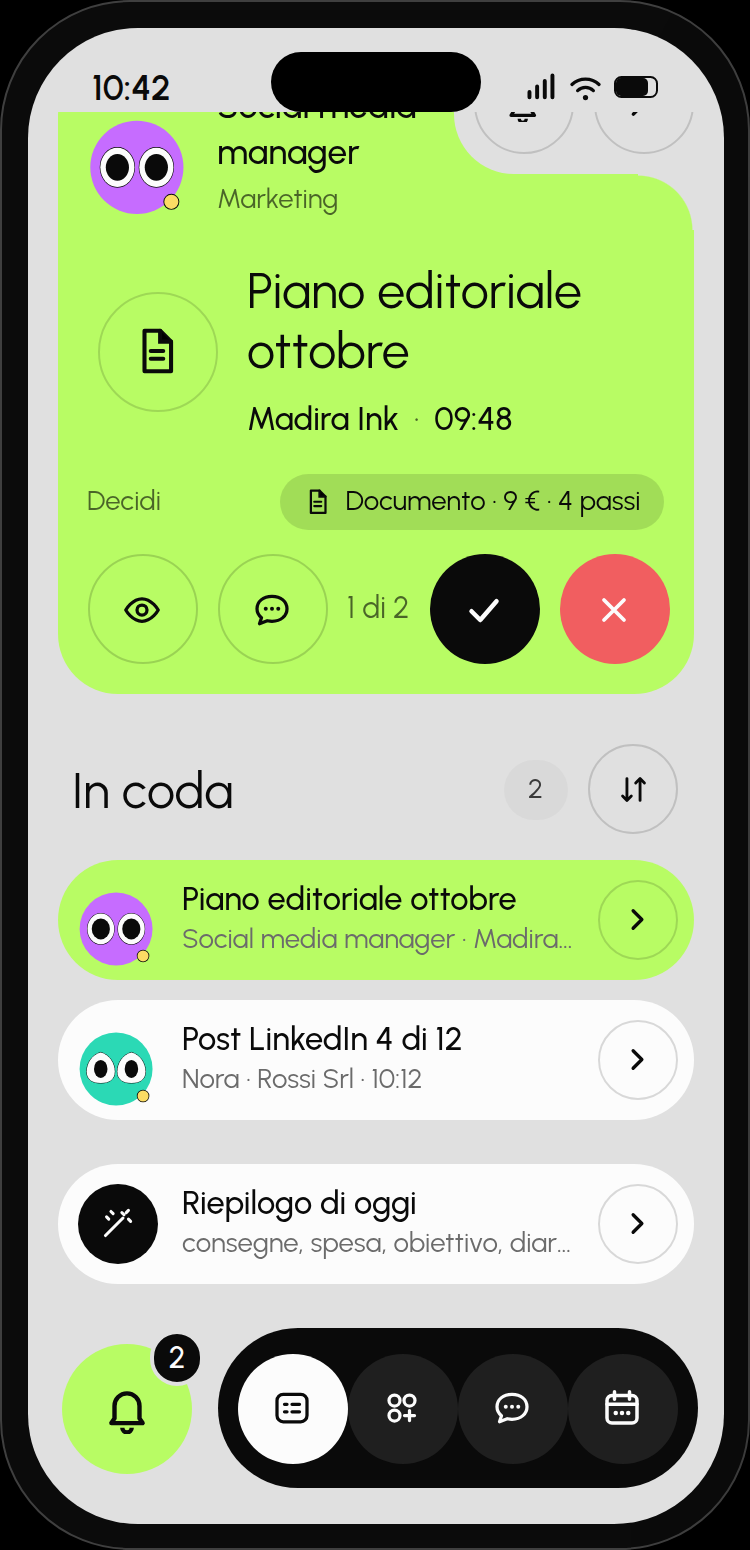
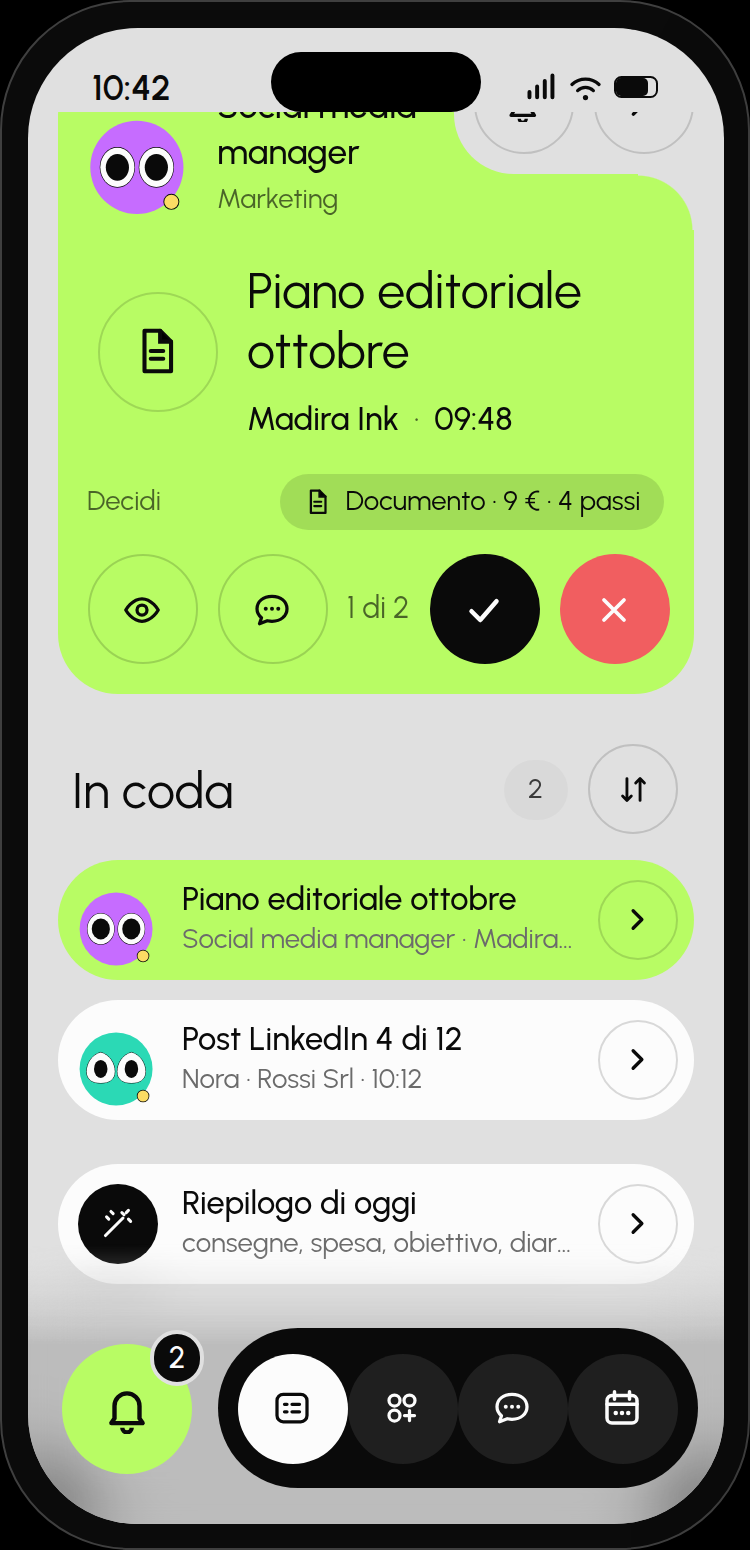
Mobile: fondo sfocato e scurito sotto la navigazione
Correzione dell'utente: la campanella lime delle approvazioni si confondeva
con la card lime e la riga lime della coda che le scorrono sotto. Il pulsante
non cambia colore: sotto la navigazione una fascia con il contenuto sfocato
(blur 14) e appena scurito (nero al 16 %), sfumata in alto. Screenshot e
documenti aggiornati (DIREZIONI.md, SYSTEM-DESIGN.md, PROSSIMA-SESSIONE.md).

Claude-Session: https://claude.ai/code/session_01BjCJ2dzrxSjpSoJBbbRKh2

Changed region(s): [[0.0307, 0.8361, 0.9813, 0.991]]

diff --git a/schermate/direzioni/mobile.js b/schermate/direzioni/mobile.js
@@ -11,7 +11,8 @@
       e i due numeri del titolare; la richiesta corrente come card lime (avatar,
       cosa, cliente · ora, chip del tipo) con i quattro cerchi della tendina della
       Console (apri, commenta, approva, rifiuta); «In coda» con le richieste come
-      righe; in fondo la riga «Riepilogo di oggi».
+      righe; in fondo la riga «Riepilogo di oggi». Sotto la navigazione il
+      contenuto che scorre è sfocato e appena scurito (correzione dell'utente).
    2. «Richiesta» (la tendina estesa in colonna, su fondo nero): indietro, le
       frecce che scorrono la coda, chip del tipo, titolo; il documento in una card
       bianca (testo e allegato); «Chi la propone» (avatar, consegnata alle, costo,
@@ -115,7 +116,11 @@ window.DGT_MOBILE = (function () {
 .m-vuoto b{font-weight:400;font-size:18px;color:var(--ink)}
 .m-scr:not(.chiara) .m-vuoto{border-color:rgb(255 255 255/.2);color:var(--t2)}
 .m-scr:not(.chiara) .m-vuoto b{color:var(--white)}
-/* navigazione in basso: campanella lime con il numero, pillola nera con i quattro cerchi del rail */
+/* navigazione in basso: campanella lime con il numero, pillola nera con i quattro cerchi del rail.
+   Sotto la navigazione il contenuto che scorre è sfocato e appena scurito, con il bordo alto sfumato (correzione dell'utente,
+   2026-09-05): la campanella lime resta distinta anche quando sotto passano la card lime o la riga lime della coda. Il vetro
+   sfocato è già nel sistema (i pulsanti «glass» della videochiamata). */
+.m-navfondo{position:absolute;left:0;right:0;bottom:0;height:112px;background:rgb(0 0 0/.16);-webkit-backdrop-filter:blur(14px);backdrop-filter:blur(14px);-webkit-mask-image:linear-gradient(180deg,transparent,#000 40px);mask-image:linear-gradient(180deg,transparent,#000 40px);pointer-events:none}
 .m-bnav{position:absolute;left:14px;right:14px;bottom:14px;height:64px;display:flex;align-items:center;gap:10px}
 .m-bnav .meet{position:relative;width:52px;height:52px;border-radius:50%;background:var(--lime);display:grid;place-items:center;color:var(--ink);flex:none}
 .m-bnav .meet svg{width:20px;height:20px}
@@ -177,7 +182,7 @@ window.DGT_MOBILE = (function () {
 
   /* ---------- pezzi comuni ---------- */
   const barraStato = m => `<div class="m-sb"><span>${esc(m.azienda.ora)}</span><span class="isl"></span><span class="sig">${ic('i-signal')}${ic('i-wifi')}<i></i></span></div>`;
-  const navigazione = (m, n, attiva) => `<div class="m-bnav">
+  const navigazione = (m, n, attiva) => `<div class="m-navfondo"></div><div class="m-bnav">
       <span class="meet" data-az="schermata" data-s="1" title="Da approvare">${ic('i-bell')}${n ? `<span class="n">${n}</span>` : ''}</span>
       <div class="tabs"><span class="rb${attiva === 1 ? ' white' : ''}" data-az="schermata" data-s="1" title="Da approvare">${ic('i-list')}</span><span class="rb" title="Dipartimenti">${ic('i-org')}</span><span class="rb" title="Chat">${ic('i-chat')}</span><span class="rb" title="Agenda">${ic('i-cal')}</span></div>
     </div>`;

diff --git a/SYSTEM-DESIGN.md b/SYSTEM-DESIGN.md
@@ -111,7 +111,7 @@ Urbanist (Google Fonts), pesi 300–600. I titoli non sono mai bold.
 | Card attività | 336×262, lime / `#4D4D4D` / scura; striscia con avatar 48, nome 15/500, ruolo 12; intaglio con campanella (punto rosso) e freccia; cerchio contornato 64 con icona; titolo 26; riga meta (coppia di avatar, data 500, "alle"); "Stato" 11; selettore a pillola 48 (bianca su lime, nera su grigio/scuro) con testo e chevron: nella card di un solo dipendente un chip di stato («In corso» lime, «Errore» rosa, l'ora) al posto dell'avatar, che sta già nella striscia; nelle card con più dipendenti (obiettivi) la pila di avatar e il badge «+N» dopo la pila, mai sotto (2026-09-04); mail vuota; video nero |
 | Videochiamata | 240 di altezza, gradiente grigio-caldo, avatar grande, controlli in vetro + rosso, espandi e chiudi |
 | Riepilogo | `#F4F4F4`, r28; cerchio nero con bacchetta, "Riepilogo" 26, freccia vuota; colonna orari 12 con badge rotondi 22 (lime "mi piace", rosa "stella") e linea `#C8C8C8`; card Documenti `#E4E4E4` r22 con intaglio per il download e due miniature 118 (`#D2D2D2`, foglio bianco, etichetta `#A7A7A7`); card Obiettivo con matita, testo 13/19 con parti in 500 (lime su mobile) |
-| Mobile | cornice 300×620 (bezel nero, r52), barra di stato "9:41", navigazione in basso a pillola nera 64 con quattro cerchi 44 (il primo bianco) e cerchio lime "video" a sinistra; WORKSPACE chiaro `#E0E0E0`; agenda nera con pannello lime, ore 38/300 ("14:00"), eventi bianchi, marcatore nero, blocco tratteggiato; videochiamata con Riepilogo. **DGT sul telefono (2026-09-05, versione 11, prima metà)**: la stessa cornice con l'ora dell'azienda; navigazione con i quattro cerchi del rail della Console e, al posto del video, la **campanella lime con il numero da approvare** (badge nero); **Da approvare** chiara (logo DGT, cerchio bianco dei filtri, iniziali del titolare; titolo 30/36; due numeri 26/300 con badge; la richiesta corrente come card lime r24 con striscia avatar 40, intaglio con campanella e freccia, icona del tipo 48, titolo 20/24, cliente · ora, riga «Decidi» con il chip tipo · costo · passi e i quattro cerchi 44 apri / commenta / approva nera / rifiuta rossa; «In coda» a righe bianche 48 con la corrente lime; riga «Riepilogo di oggi»); **Richiesta** nera (indietro e frecce della coda 44, chip 24, titolo 24/28, riga «chi · cliente · consegnata alle», documento bianco r24 con chip dell'allegato e testo 14/21, card scure r24 «Chi la propone» e «Nota del dipendente», barra fissa in basso: Approva lime 48 larga, matita, X rossa, con dissolvenza nera; il rifiuto trasforma la barra in etichetta 11 maiuscola, campo a pillola bianca 48 e pillole «Rifiuta» rossa / «Annulla») |
+| Mobile | cornice 300×620 (bezel nero, r52), barra di stato "9:41", navigazione in basso a pillola nera 64 con quattro cerchi 44 (il primo bianco) e cerchio lime "video" a sinistra; WORKSPACE chiaro `#E0E0E0`; agenda nera con pannello lime, ore 38/300 ("14:00"), eventi bianchi, marcatore nero, blocco tratteggiato; videochiamata con Riepilogo. **DGT sul telefono (2026-09-05, versione 11, prima metà)**: la stessa cornice con l'ora dell'azienda; navigazione con i quattro cerchi del rail della Console e, al posto del video, la **campanella lime con il numero da approvare** (badge nero); **Da approvare** chiara (logo DGT, cerchio bianco dei filtri, iniziali del titolare; titolo 30/36; due numeri 26/300 con badge; la richiesta corrente come card lime r24 con striscia avatar 40, intaglio con campanella e freccia, icona del tipo 48, titolo 20/24, cliente · ora, riga «Decidi» con il chip tipo · costo · passi e i quattro cerchi 44 apri / commenta / approva nera / rifiuta rossa; «In coda» a righe bianche 48 con la corrente lime; riga «Riepilogo di oggi»; sotto la navigazione una fascia di 112 px con il contenuto che scorre sfocato (blur 14) e appena scurito (nero .16), sfumata in alto, perché la campanella lime resti distinta dalle card lime che le passano sotto); **Richiesta** nera (indietro e frecce della coda 44, chip 24, titolo 24/28, riga «chi · cliente · consegnata alle», documento bianco r24 con chip dell'allegato e testo 14/21, card scure r24 «Chi la propone» e «Nota del dipendente», barra fissa in basso: Approva lime 48 larga, matita, X rossa, con dissolvenza nera; il rifiuto trasforma la barra in etichetta 11 maiuscola, campo a pillola bianca 48 e pillole «Rifiuta» rossa / «Annulla») |
 | Campione colore | 220×220 r38, bordo 4 `#565656`, cursore con etichetta bianca |
 | Card sfida | `#4D4D4D` r30, icona in cerchio contornato 80 (lime), testo 14/20 centrato; una lime |
 | Passo del processo | cerchio contornato 64 con icona + pillola `#4D4D4D` 64; il primo lime; frecce tratteggiate |
@@ -229,7 +229,8 @@ Le schermate successive nascono solo dentro questa direzione, con queste regole:
     campanella lime con il numero da approvare; «Da approvare» è chiara come WORKSPACE, con la richiesta corrente come card
     lime e la coda a righe; «Richiesta» è la tendina estesa in colonna su nero, con la barra fissa Approva / Chiedi modifiche /
     Rifiuta. Approvare è al volo; **rifiutare chiede sempre il motivo** (anche dalla card: la X apre la richiesta con il campo
-    pronto). Le revisioni di performance restano alla Console finché il confronto delle versioni non è disegnato sul telefono.
+    pronto). Sotto la navigazione il contenuto che scorre è sfocato e appena scurito, con il bordo sfumato: un pulsante lime
+    non cambia colore per distinguersi dalle card lime, è il fondo sotto la barra a farsi da parte (correzione dell'utente). Le revisioni di performance restano alla Console finché il confronto delle versioni non è disegnato sul telefono.
     Riepilogo di oggi, stato vuoto e prova a quaranta: sessione successiva.
 
 Mappa dei componenti sui concetti di DGT (barra agenda → esecuzioni del giorno, card attività → esecuzione, card lead →

diff --git a/PROSSIMA-SESSIONE.md b/PROSSIMA-SESSIONE.md
@@ -11,7 +11,8 @@ sul telefono, lo stato vuoto, la prova a quaranta), dopo il giudizio dell'utente
   stata unita all'inizio di questa sessione. **Nessuna PR aperta per questo branch** (l'utente non l'ha chiesta): all'avvio
   della prossima sessione aprirla verso `main` se serve, oppure continuare sullo stesso branch; se nel frattempo è stata unita,
   ripartire da `main` con un branch nuovo.
-- Artefatto del **mobile** (`mobile.html`: i due telefoni affiancati, «Da approvare» e «Richiesta», cliccabili):
+- Artefatto del **mobile** (`mobile.html`: i due telefoni affiancati, «Da approvare» e «Richiesta», cliccabili; ripubblicato
+  allo stesso indirizzo dopo la correzione della navigazione):
   https://claude.ai/code/artifact/34192ba0-51da-4f02-9e64-3a6d698a44e9. Si rigenera con
   `node schermate/direzioni/build-unico.js mobile.html /percorso/nova-studio-mobile.html`.
 - Artefatto della **Console** (direzione A cliccabile: home, tendine, Richieste, Dipartimento, editor del dipendente, pagina
@@ -75,6 +76,10 @@ sul telefono, lo stato vuoto, la prova a quaranta), dopo il giudizio dell'utente
     sulla prima schermata («spesi oggi» va nel Riepilogo); le revisioni di performance restano fuori dalla coda del telefono
     finché il confronto non è disegnato (la Console dice 4 da approvare, il telefono 2); i due telefoni affiancati condividono
     modello e richiesta corrente.
+22. **Prima correzione dell'utente sul mobile** («l'icona delle approvazioni ha lo stesso colore di alcune card e quando scorri
+    non si distingue; invece di cambiare colore al pulsante, sfondo sfocato e leggermente oscurato nella parte bassa dove c'è la
+    navbar»): fatto, fascia `.m-navfondo` sotto la navigazione (blur 14, nero al 16 %, bordo alto sfumato). Le due schermate
+    per il resto non sono ancora state giudicate («bene» sul primo sguardo).
 
 Vincolo che vale sempre: nessun logo, foto o marchio di terzi (i modelli sono livelli neutri di DGT: Rapido, Standard,
 Esperto; il riferimento lilguy.net è stato studiato, non copiato); contenuti sintetici di DGT; documenti in italiano.
@@ -85,7 +90,9 @@ Esperto; il riferimento lilguy.net è stato studiato, non copiato); contenuti si
    Controllare il branch (vedi «Stato»). Aprire `schermate/direzioni/mobile.html` (i due telefoni; `?schermata=2&richiesta=1`
    per il post) e `direzione-a.html` per la Console.
 2. **Raccogliere il giudizio dell'utente** sulle due schermate (screenshot in `schermate/direzioni/screenshot/mobile-*.png`,
-   artefatto in «Stato») e correggere prima di andare avanti.
+   artefatto in «Stato») e correggere prima di andare avanti. Una correzione è già arrivata e fatta (decisione 22: la fascia
+   sfocata sotto la navigazione); la regola che ne esce: un pulsante non cambia colore per distinguersi, è il fondo a farsi da
+   parte.
 3. **Riepilogo di oggi** (schermata 3, `#F4F4F4`): il pannello Riepilogo dello specimen sul telefono (`.summary`, `.tline` con i
    badge rotondi, `.dcard`), con consegne (miniature), approvate oggi, spesa di oggi, obiettivo del mese nella card lime con la
    matita, le voci del diario sulla linea del tempo, e la riga lime che riporta alle richieste. In `direzione-a.js` c'è già

diff --git a/schermate/direzioni/DIREZIONI.md b/schermate/direzioni/DIREZIONI.md
@@ -755,6 +755,13 @@ la barra delle azioni sforava di 18 px e il fuoco sull'input faceva scorrere lo 
 «Rifiuta» al posto di «Conferma il rifiuto», `focus({ preventScroll: true })`; la prova cliccata controlla lo sforo orizzontale
 di ogni schermo a ogni passo). A quaranta l'allegato generato segue il tipo (immagine, foglio, documento).
 
+**Correzione dell'utente alla prima vista** («l'icona delle approvazioni ha lo stesso colore di alcune card e quando scorri capita
+di non riuscire a distinguerla; invece di cambiare colore al pulsante, mettere lo sfondo sfocato e leggermente oscurato nella
+parte bassa dove c'è la navbar»): sotto la navigazione una fascia di 112 px (`.m-navfondo`) con il contenuto che scorre
+**sfocato** (`backdrop-filter: blur(14px)`) e **appena scurito** (nero al 16 %), con il bordo alto sfumato in 40 px
+(`mask-image`), sotto la campanella e la pillola nera, che non cambiano. Il vetro sfocato è già nel sistema (i pulsanti «glass»
+della videochiamata). La barra delle azioni della seconda schermata tiene la sua dissolvenza nera.
+
 Screenshot: `screenshot/mobile.png` (la pagina), `mobile-1-da-approvare.png`, `mobile-1-coda.png` (scorsa alla coda),
 `mobile-2-richiesta.png` (documento), `mobile-2-richiesta-post.png`, `mobile-2-rifiuto.png` (cornici catturate con
 `design-system/tools/screenshot-elementi.js`, `SCALE=2 H=1100`, `CLICK` per il rifiuto, `EVAL` per lo scorrimento). Artefatto:
